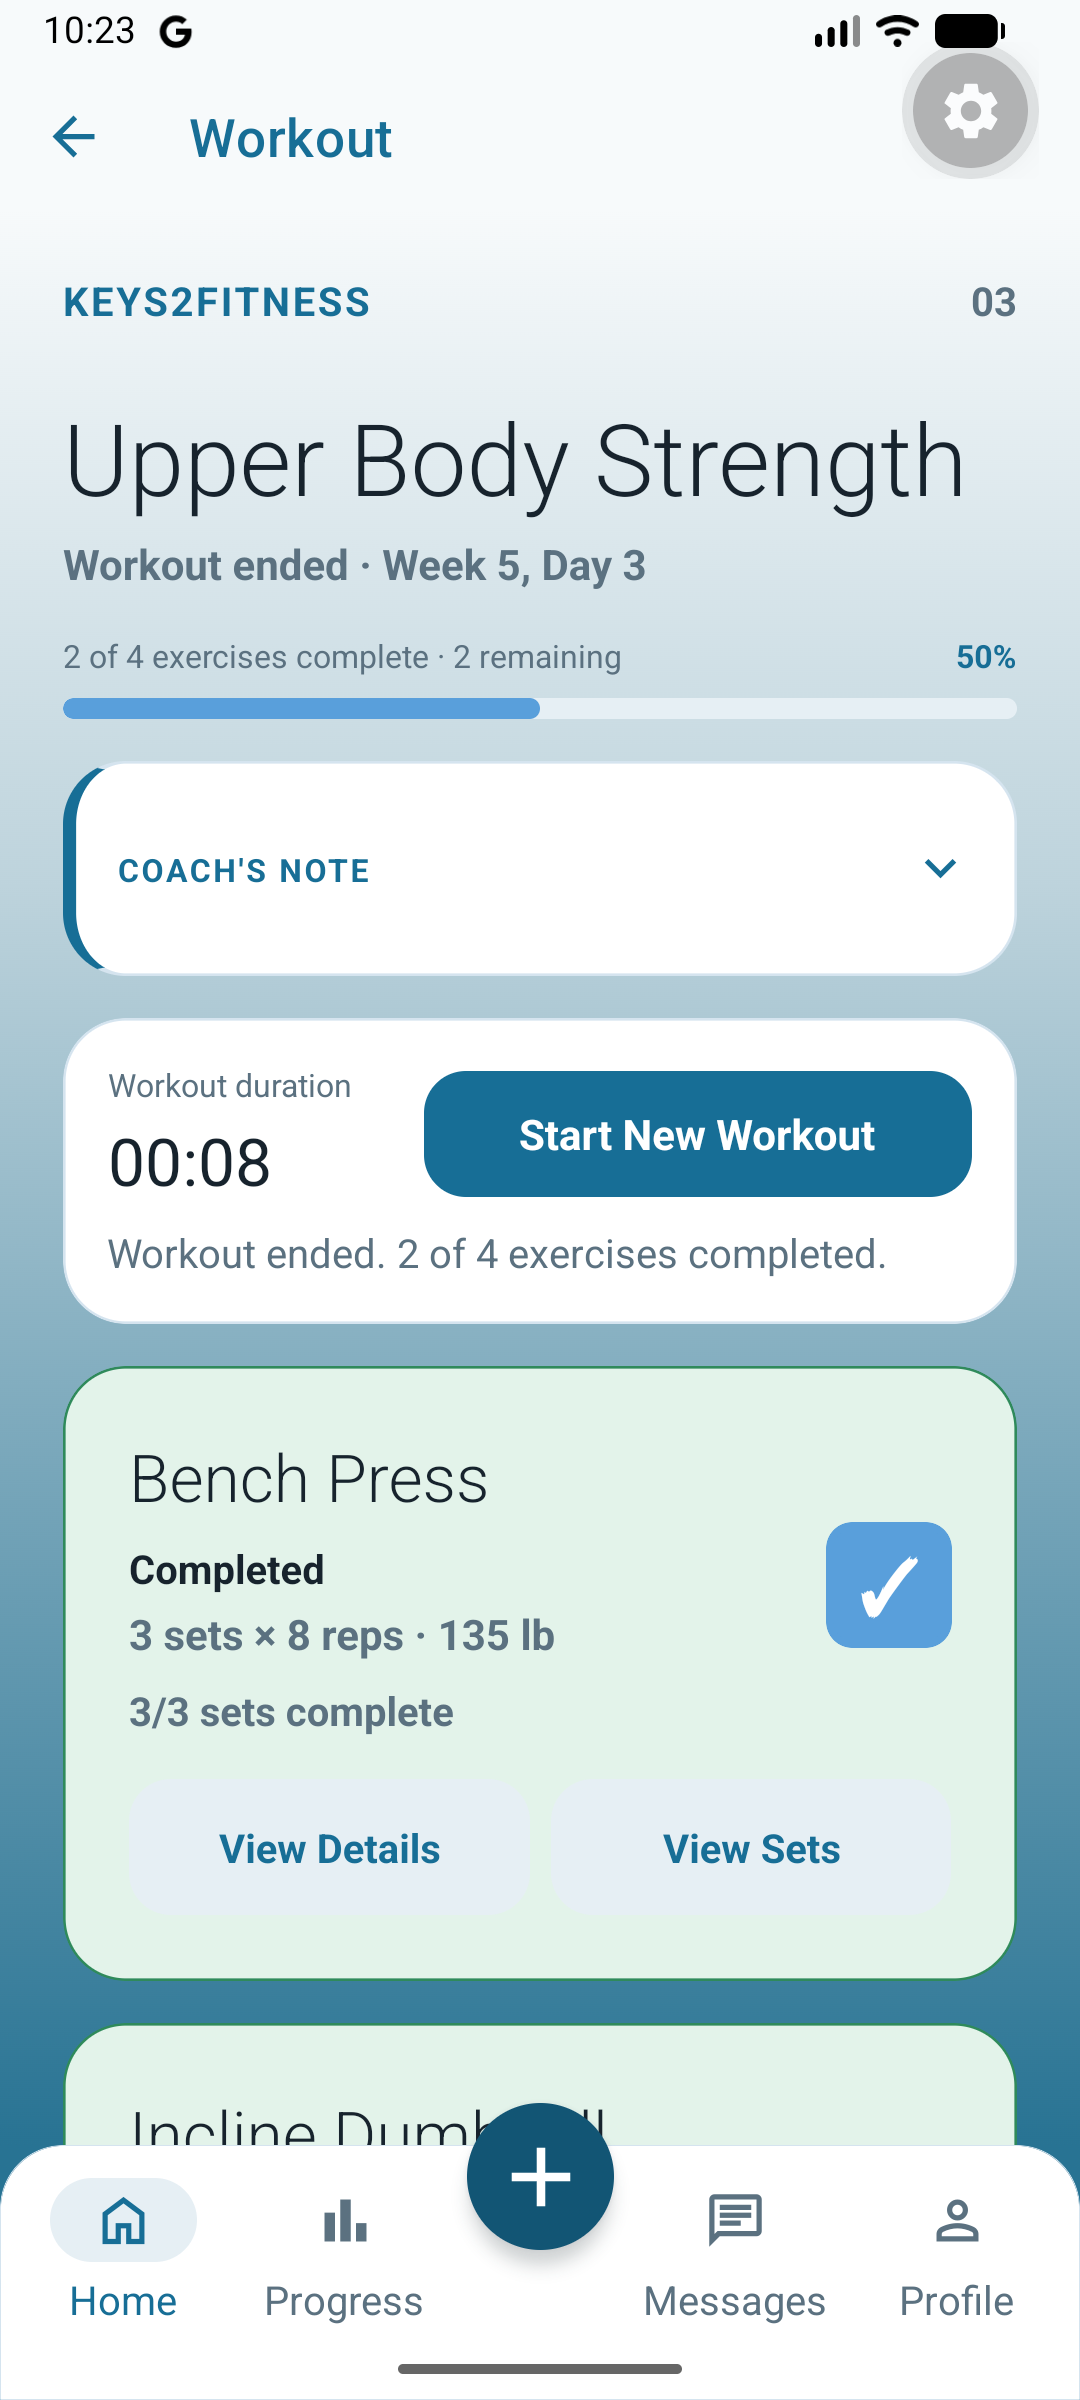
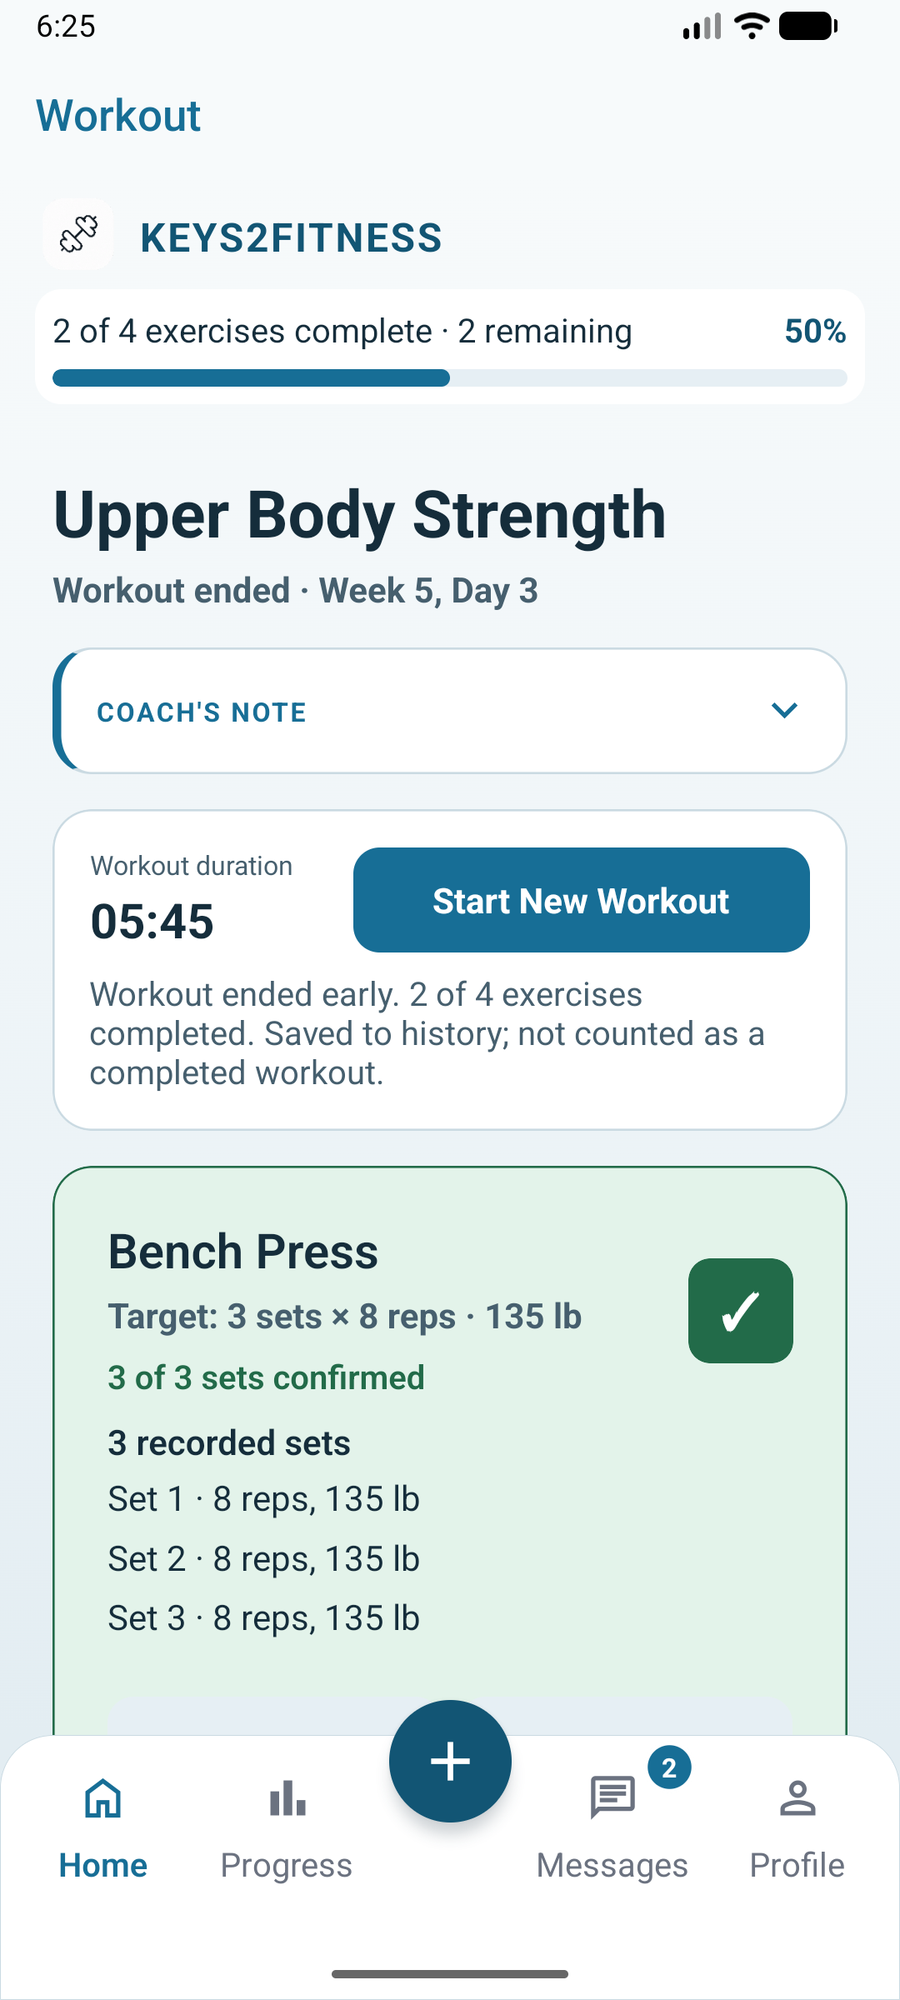
Refresh README screenshots for the redesigned Android demo

diff --git a/README.md b/README.md
@@ -58,7 +58,7 @@ The project is a working UI prototype with selected Firebase-backed features. **
 | Workout history | Open Progress or choose Workout history from the + menu to review completed workouts, recorded sets, and active time saved on this device. |
 | Profiles and preferences | Client profile/preferences persist locally. Coach profile editing is currently a local UI prototype. |
 | Goals and weight measurements | Authenticated Firestore reads/writes for the current weight goal and weight entries, including entry editing/deletion. Dashboard goal summaries also include mock data. |
-| Weight progress chart | Client Progress plots sample check-in weights in pounds over 30 days, 90 days, or all time. [Chart preview](K2F/docs/images/weight-progress-chart.png) |
+| Weight progress chart | Client Progress plots sample check-in weights in pounds over 30 days, 90 days, or all time. [All-time chart preview](K2F/docs/images/weight-progress-chart.png) |
 | Messaging | Conversation UI, search, local message composition, and on-device read markers. End-to-end coach/client message delivery is not yet connected. |
 | Check-ins | Demo check-in/history views and coach navigation. |
 | Nutrition | Client-scoped demo calorie/macro targets, coach tips, dated food logging and intake comparison. Coach edits update the shared in-memory client plan without rewriting logged food. |
@@ -66,7 +66,7 @@ The project is a working UI prototype with selected Firebase-backed features. **
 
 ## App screenshots
 
-The team captured these screens in Expo Go on Android with demo data. Select an image to enlarge it.
+These screenshots show the standalone Android demo, version 1.0.5, with sample coaching data. Select an image to enlarge it.
 
 <table>
   <tr>
@@ -75,9 +75,9 @@ The team captured these screens in Expo Go on Android with demo data. Select an 
     <th>Exercise prescription editor</th>
   </tr>
   <tr>
-    <td><a href="K2F/docs/images/coach-dashboard.png"><img src="K2F/docs/images/coach-dashboard.png" alt="Coach dashboard with active clients and recent demo activity" width="240" /></a></td>
-    <td><a href="K2F/docs/images/workout-library.png"><img src="K2F/docs/images/workout-library.png" alt="Workout template library filtered to strength plans, with create, duplicate, edit, and delete controls" width="240" /></a></td>
-    <td><a href="K2F/docs/images/prescription-editor.png"><img src="K2F/docs/images/prescription-editor.png" alt="Bench Press prescription editor showing sets, reps, pounds, rest seconds, and instructions" width="240" /></a></td>
+    <td><a href="K2F/docs/images/coach-dashboard.png"><img src="K2F/docs/images/coach-dashboard.png" alt="Coach inbox with three pending videos and a Review oldest video button for Spencer's Bench Press" width="240" /></a></td>
+    <td><a href="K2F/docs/images/workout-library.png"><img src="K2F/docs/images/workout-library.png" alt="Workout Library filtered to strength templates, with Assign or manage below Upper Body Strength" width="240" /></a></td>
+    <td><a href="K2F/docs/images/prescription-editor.png"><img src="K2F/docs/images/prescription-editor.png" alt="Bench Press prescription set to three sets of eight reps at 135 lb, with optional rest and lifting instructions" width="240" /></a></td>
   </tr>
   <tr>
     <th>Client workout</th>
@@ -85,13 +85,13 @@ The team captured these screens in Expo Go on Android with demo data. Select an 
     <th>Client messaging prototype</th>
   </tr>
   <tr>
-    <td><a href="K2F/docs/images/client-workout.png"><img src="K2F/docs/images/client-workout.png" alt="Client workout with progress, a recorded ended session, and exercise completion controls" width="240" /></a></td>
-    <td><a href="K2F/docs/images/exercise-details.png"><img src="K2F/docs/images/exercise-details.png" alt="Bench Press details with prescription, reusable instructions, and a client-specific coach recommendation" width="240" /></a></td>
-    <td><a href="K2F/docs/images/client-messages.png"><img src="K2F/docs/images/client-messages.png" alt="Client conversation prototype with sample coach messages and a message composer" width="240" /></a></td>
+    <td><a href="K2F/docs/images/client-workout.png"><img src="K2F/docs/images/client-workout.png" alt="Upper Body Strength ended early at 50%, with each confirmed Bench Press set listed as 8 reps, 135 lb" width="240" /></a></td>
+    <td><a href="K2F/docs/images/exercise-details.png"><img src="K2F/docs/images/exercise-details.png" alt="Bench Press details with prescribed sets, reps and weight, lifting instructions, and a labeled sample video" width="240" /></a></td>
+    <td><a href="K2F/docs/images/client-messages.png"><img src="K2F/docs/images/client-messages.png" alt="Client conversation with Coach Keys, a blue outgoing message about increasing weight, and the message composer" width="240" /></a></td>
   </tr>
 </table>
 
-See the [screenshot notes](K2F/docs/images/README.md) for capture context. Original UI mockups are available in [design references](K2F/design-references).
+The [nine-screen overview](K2F/docs/images/mobile-ui-preview-1.0.5.png) also shows Client Home, Nutrition, and Progress. See the [screenshot notes](K2F/docs/images/README.md) for capture details or the [original mockups](K2F/design-references) for the design references.
 
 ## Technology and architecture
 

diff --git a/K2F/docs/images/README.md b/K2F/docs/images/README.md
@@ -1,19 +1,19 @@
 # README screenshots
 
-These PNGs show the running Android app with demo data. Most were captured in Expo Go.
+The six screenshots in the main README gallery and its linked weight chart were captured in the standalone Android demo 1.0.5. They use a separate emulator profile with sample data, a 411 dp phone viewport, and normal text size. Each opens as a 900 × 2000 px PNG.
 
 | File | View |
 | --- | --- |
-| `coach-dashboard.png` | Coach greeting, four equal-size overview tiles, and the latest demo check-in |
-| `workout-library.png` | Workout library filtered to strength plans |
-| `prescription-editor.png` | Coach exercise-prescription editor |
-| `client-workout.png` | Client workout and completion controls |
-| `exercise-details.png` | Exercise instructions and client-specific coach recommendation |
-| `client-messages.png` | Client conversation prototype |
+| `coach-dashboard.png` | Form-check inbox with the oldest submission and four dashboard shortcuts |
+| `workout-library.png` | Templates filter selected, with a search for “Strength” and the collapsed assignment and management controls |
+| `prescription-editor.png` | Bench Press in the workout builder: 3 sets, 8 reps, 135 lb, optional rest, and instructions |
+| `client-workout.png` | Upper Body Strength ended early with 2 of 4 exercises completed and three recorded Bench Press sets |
+| `exercise-details.png` | Bench Press details sheet with its prescription, instructions, and sample demonstration player |
+| `client-messages.png` | Sample conversation with Coach Keys, outgoing message, and empty composer |
 | `branded-login.png` | Figma-inspired welcome mark, wordmark and login card |
 | `client-home.png` | Shared brand header, local-time greeting, and the selected client's workout |
 | [Client Home, Recent Messages](client-recent-messages.png) | Bottom of Home at 390 dp. The primary button opens Messages. Its touch target measured 48 dp high at 390 dp, 320 dp with 1.5× text, and 800 dp. |
-| `weight-progress-chart.png` | K2F-129: six sample check-ins on Client Progress with All time selected (390 × 844 dp) |
+| `weight-progress-chart.png` | Six sample check-ins on Client Progress with All time selected and Show readings below the chart |
 | `workout-history-empty.png`, `workout-history-list.png` | Empty and populated workout history cards, cropped from the 390 dp Android view using temporary demo records |
 | `nutrition-targets.png` | K2F-125: Alex's assigned daily targets and same-day intake (390 dp) |
 | [Nutrition date controls](nutrition-date-controls.png) | Previous day and disabled Next day on Today, cropped from the standalone 1.0.4 demo at 390 dp |
@@ -21,6 +21,6 @@ These PNGs show the running Android app with demo data. Most were captured in Ex
 | [Local 1.0.5 preview](mobile-ui-preview-1.0.5.png) | Same nine routes in the redesigned standalone demo, at the same viewport. See the [review walkthrough](../local-design-preview.md). |
 | `workout-progress.png` | K2F-47: progress remains pinned while scrolling through a two-exercise demo session (390 dp) |
 
-The two dashboard previews show the Sprint 4 branding update at 390 × 844 dp and normal font scale. The login preview is from K2F-34. The workout library, prescription editor, client workout, exercise details, and messaging captures date to `e97c283`. Workout data is local, and conversations use demo messages.
+The individual Client Home and login previews predate the redesign. The two nine-screen sheets preserve the before-and-after comparison.
 
 To refresh an image, navigate to the corresponding screen with demo data and capture it with Android's screenshot tool or `adb exec-out screencap -p`. Preserve the real UI and avoid including credentials or test-workout names. The root README uses relative paths to these files.
